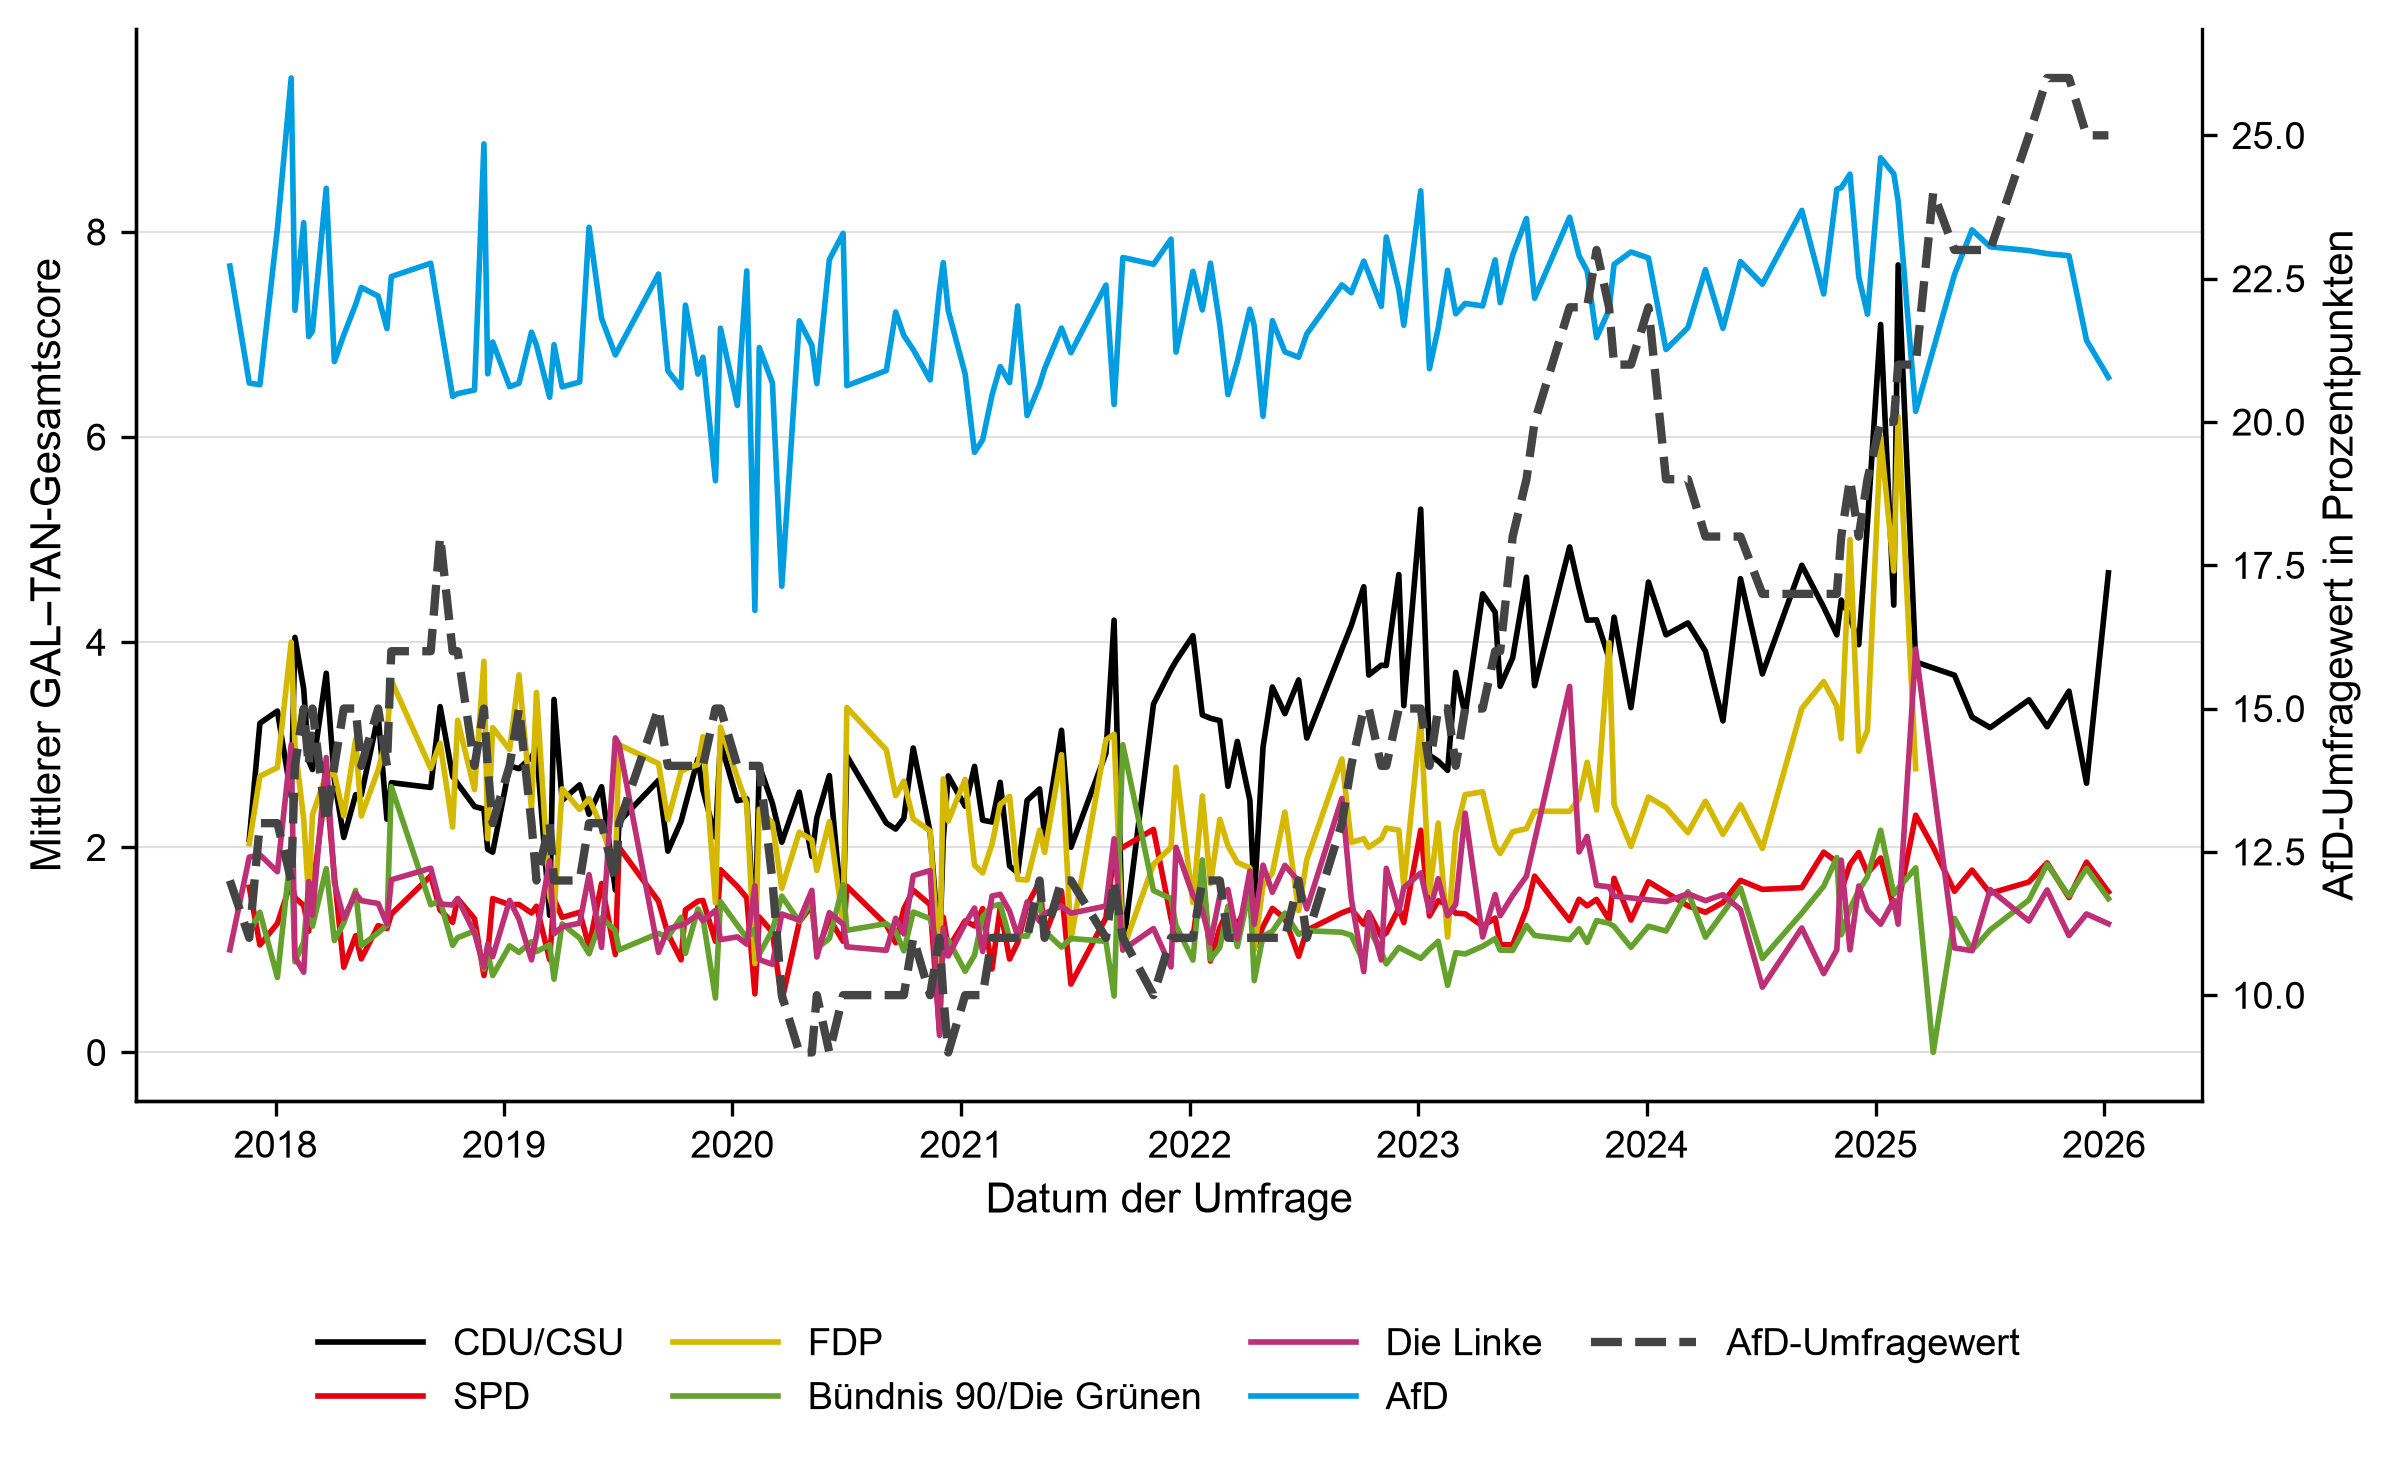
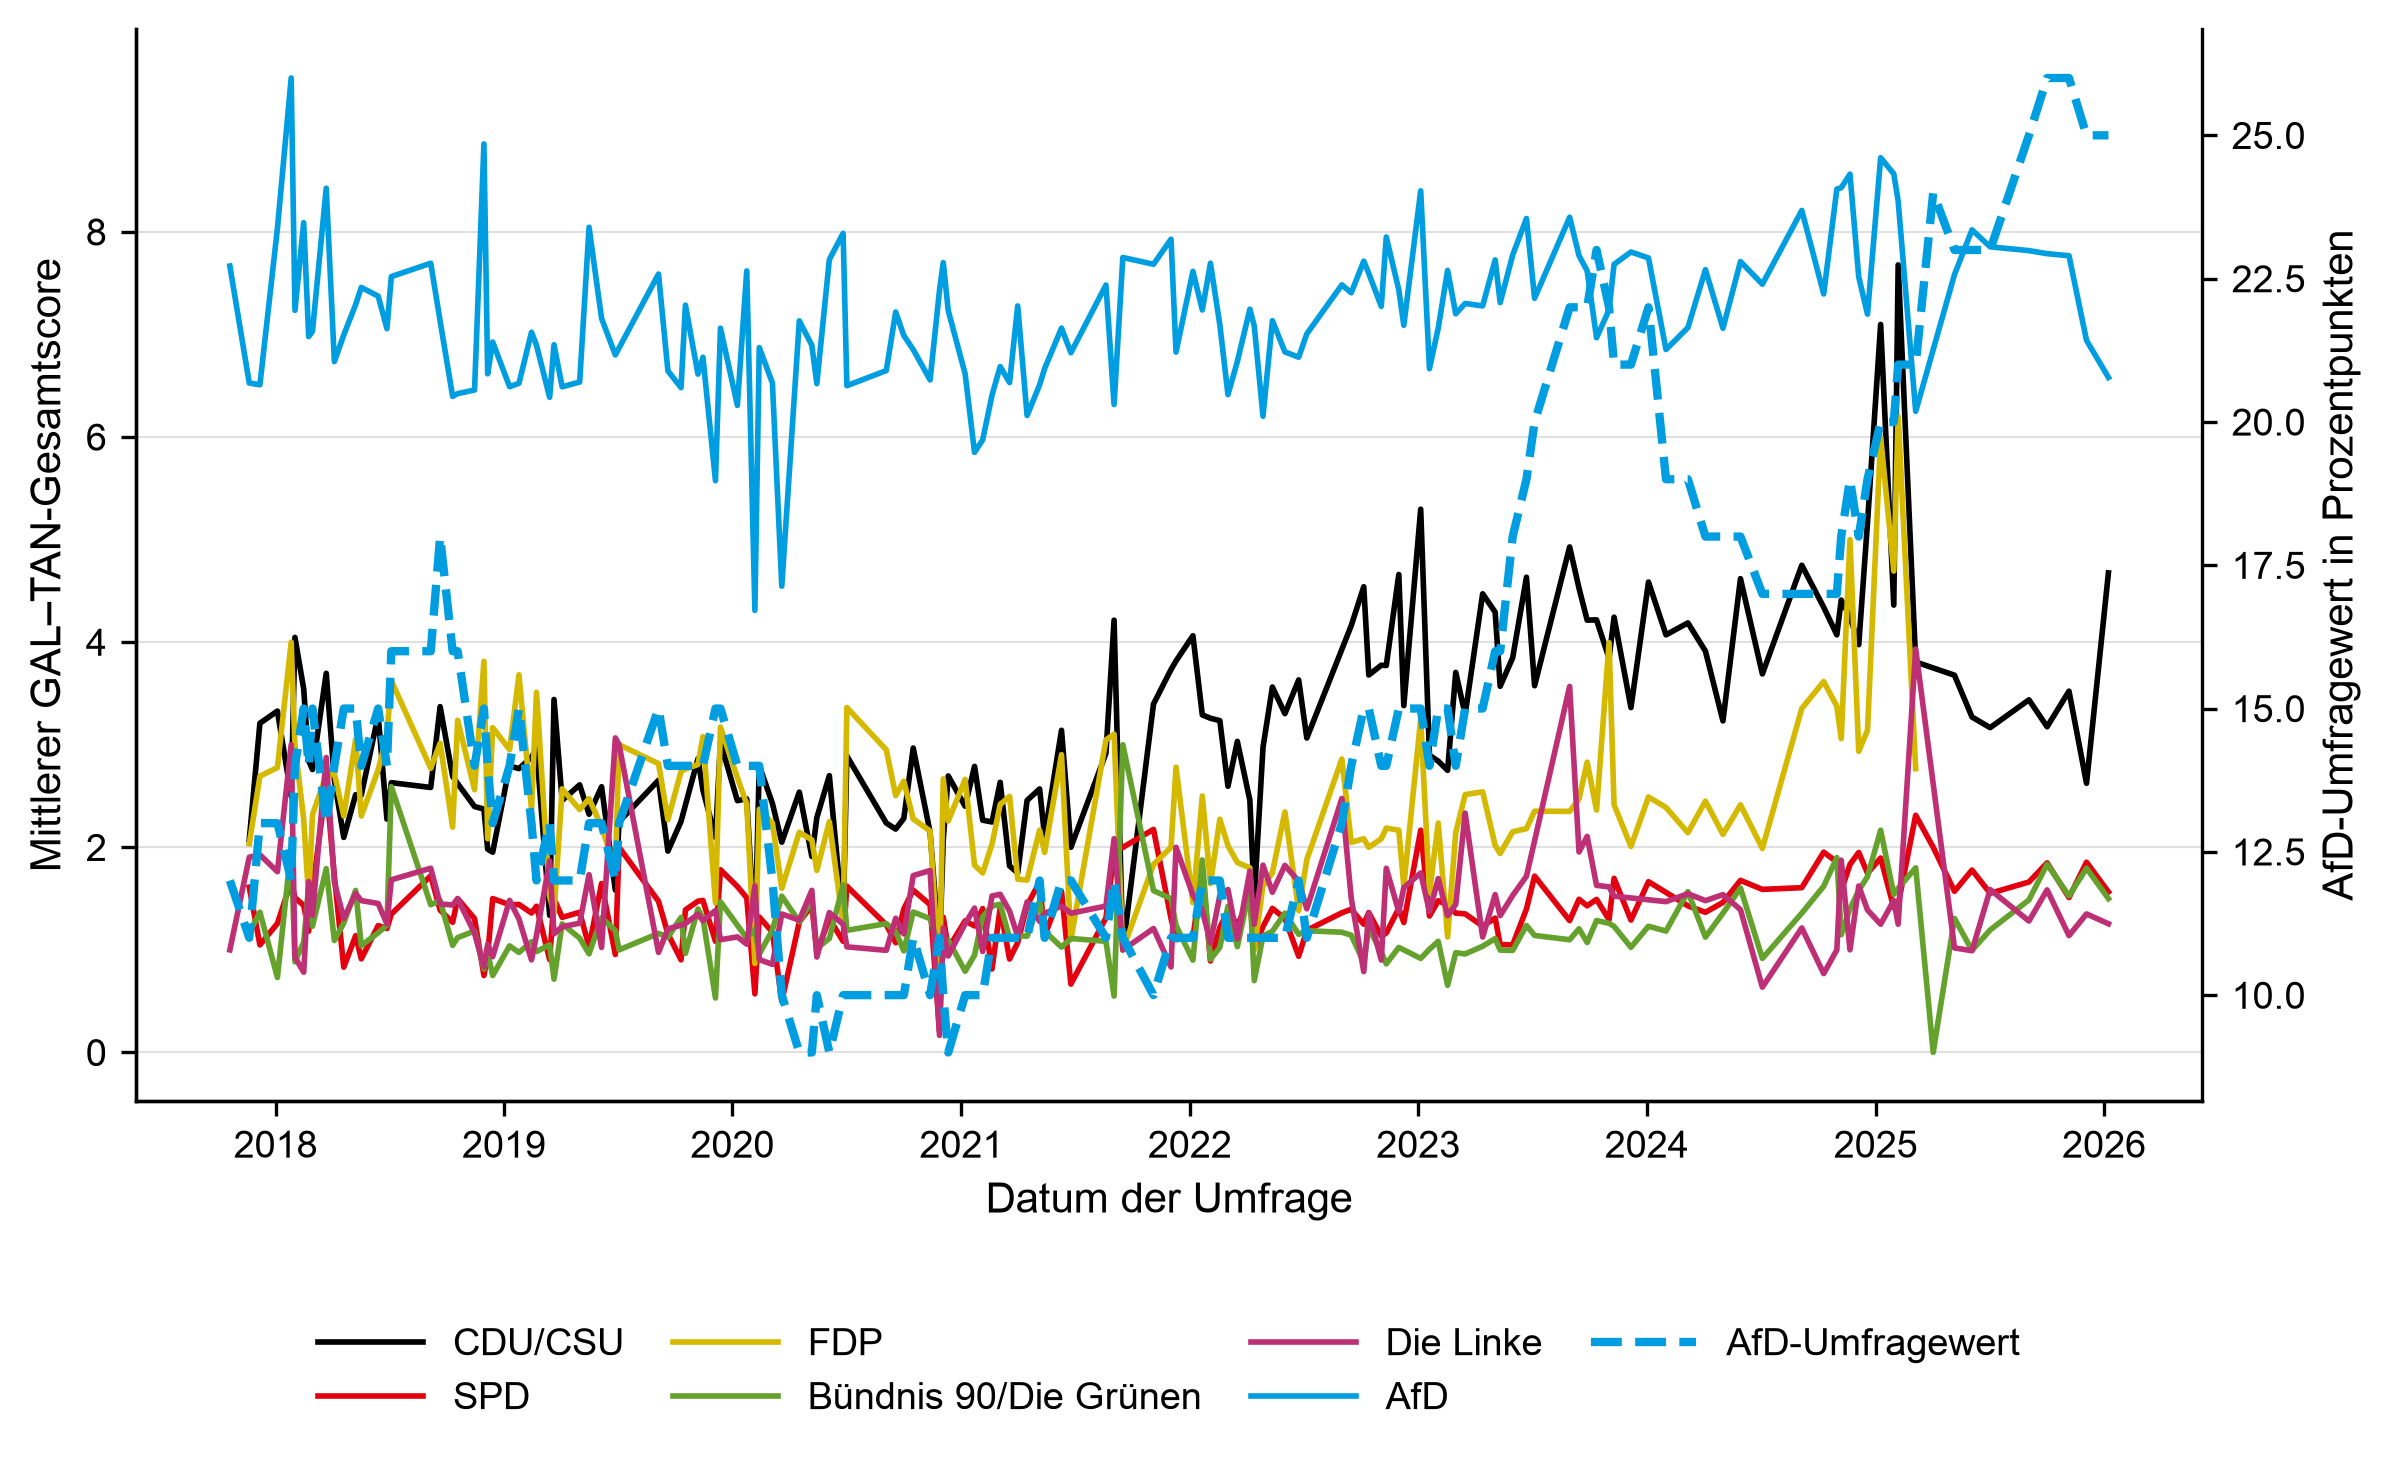
figures_adjustments

diff --git a/src/29_figures.py b/src/29_figures.py
@@ -765,14 +765,14 @@ def create_score_and_afd_poll_plot(
 
     poll_ax = score_ax.twinx()
     poll_ax.plot(
-        afd_poll_df["poll_date"],
-        afd_poll_df[afd_poll_column],
-        label="AfD-Umfragewert",
-        color="#444444",
-        linestyle="--",
-        linewidth=2.0,
-        zorder=4,
-    )
+    afd_poll_df["poll_date"],
+    afd_poll_df[afd_poll_column],
+    label="AfD-Umfragewert",
+    color=PARTY_COLORS["afd"],
+    linestyle="--",
+    linewidth=2.0,
+    zorder=4,
+)
     poll_ax.set_ylabel("AfD-Umfragewert in Prozentpunkten")
     poll_ax.spines["top"].set_visible(False)
     poll_ax.spines["right"].set_linewidth(0.8)
